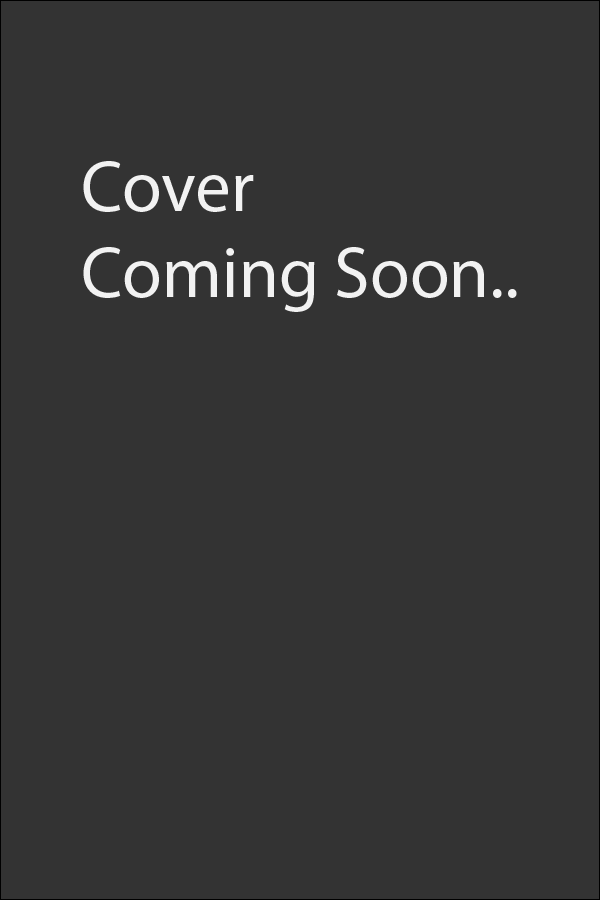
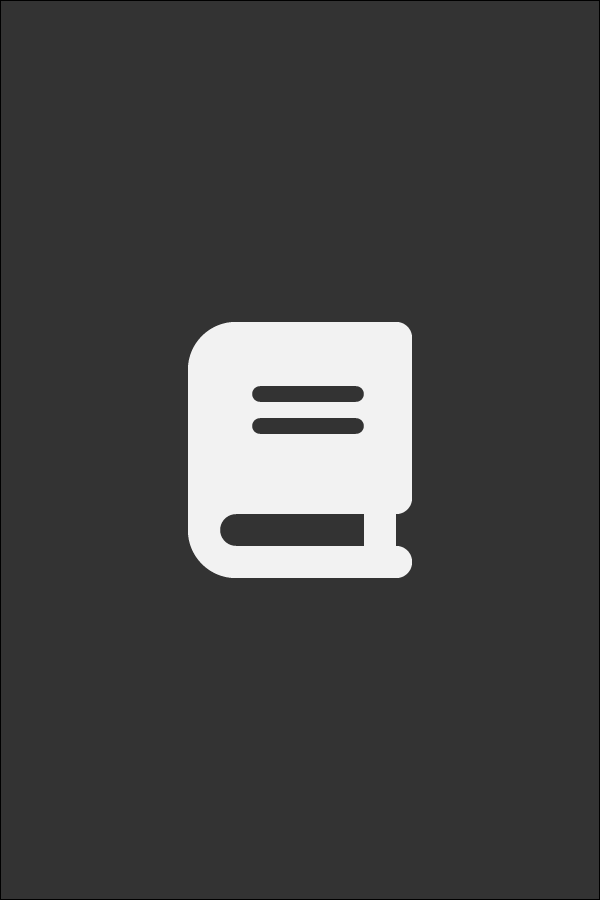
book covers not rendering

Changed region(s): [[0.12, 0.1556, 0.87, 0.6533]]

diff --git a/src/renderer/booksRenderer.js b/src/renderer/booksRenderer.js
@@ -1,9 +1,62 @@
 const {ipcRenderer} = require('electron');
 const fs = require('fs');
 const path = require('path');
+const AdmZip = require('adm-zip');
+const xml2js = require('xml2js');
 
+function extractBookCover(epubPath) {
+    try {
+        const zip = new AdmZip(epubPath);
+        console.log("Extracting cover from:", epubPath);
+
+        const container = zip.readAsText("META-INF/container.xml");
+        let opfPath;
+        xml2js.parseString(container, {tagNameProcessors: [xml2js.processors.stripPrefix]}, (err, result) => {
+            if (err) {
+                console.error("Failed to parse container.xml:", err);
+                return;
+            }
+            opfPath = result.container.rootfiles[0].rootfile[0].$.fullPath;
+        });
+
+        if (!opfPath) {
+            console.error("Could not find OPF path in container.xml");
+            return './images/placeholder_image.png';
+        }
+
+        const opf = zip.readAsText(opfPath);
+        let coverImagePath;
+        xml2js.parseString(opf, (err, result) => {
+            if (err) {
+                console.error("Failed to parse OPF:", err);
+                return;
+            }
+
+            const manifest = result.package.manifest[0].item;
+            const coverItem = manifest.find(item => item.$["properties"] === "cover-image");
+            if (coverItem) {
+                coverImagePath = coverItem.$.href;
+            }
+        });
+
+        if (!coverImagePath) {
+            console.error("Could not find cover image path in OPF");
+            return './images/placeholder_image.png';
+        }
+
+        const coverImageBuffer = zip.readFile(opfPath.replace(/[^\/]+$/, '') + coverImagePath);
+        const coverImageSavePath = path.join(require('os').tmpdir(), 'epub-cover-' + Date.now() + '.png');
+        fs.writeFileSync(coverImageSavePath, coverImageBuffer);
+
+        return coverImageSavePath;
+    } catch (error) {
+        console.error("Error in extractBookCover:", error);
+        return './images/placeholder_image.png';
+    }
+}
 
 ipcRenderer.on('load-books', (event, directoryPath) => {
+    console.log('Received load-books event with directory path:', directoryPath);
     fs.readdir(directoryPath, (err, files) => {
         if (err) {
             console.error('Error reading directory:', err);
@@ -11,7 +64,7 @@ ipcRenderer.on('load-books', (event, directoryPath) => {
         }
 
         const epubFiles = files.filter(file => path.extname(file).toLowerCase() === '.epub');
-
+        console.log('Found EPUB files:', epubFiles);
         epubFiles.forEach(epubFile => {
             const fullBookPath = path.join(directoryPath, epubFile);
 
@@ -19,11 +72,11 @@ ipcRenderer.on('load-books', (event, directoryPath) => {
             bookElement.classList.add('book-item');
 
             const bookImage = document.createElement('img');
-            bookImage.src = './images/placeholder_image.png';  // Placeholder image
+            bookImage.src = extractBookCover(fullBookPath);
             bookElement.appendChild(bookImage);
 
             const bookTitle = document.createElement('span');
-            bookTitle.textContent = path.basename(epubFile, '.epub'); // Use filename as title
+            bookTitle.textContent = path.basename(epubFile, '.epub');
             bookElement.appendChild(bookTitle);
 
             bookElement.addEventListener('click', () => {

diff --git a/src/main/main.js b/src/main/main.js
@@ -9,7 +9,7 @@ ipcMain.on('electron-store-get-data', (event, arg) => {
     if (arg && typeof arg.key !== 'undefined') {
         event.returnValue = store.get(arg.key, arg.defaultValue);
     } else {
-        console.error('electron-store-get-data called without a valid key');
+        //console.error('electron-store-get-data called without a valid key');
         event.returnValue = null;
     }
 });
@@ -35,6 +35,7 @@ function createWindow() {
 }
 
 function openBooksWindow(directoryPath) {
+    console.log("Opening books window...");
     booksWindow = new BrowserWindow({
         width: 800,
         height: 600,
@@ -46,6 +47,7 @@ function openBooksWindow(directoryPath) {
     });
 
     booksWindow.loadFile('src/books.html').then(() => {
+        console.log("Sending directory path to books window:", directoryPath);
         booksWindow.webContents.send('load-books', directoryPath);
     });
 
@@ -160,6 +162,7 @@ const generateMenu = () => {
 Menu.setApplicationMenu(Menu.buildFromTemplate(generateMenu()));
 
 ipcMain.on('toc-ready', (event, toc) => {
+    // console.log("Received toc-ready with toc:", toc);
     tocMenu = toc.map(tocItem => {
         return {
             label: tocItem.label,
@@ -174,6 +177,7 @@ ipcMain.on('toc-ready', (event, toc) => {
 });
 
 ipcMain.on('open-book', (event, bookPath) => {
+    console.log("Received open-book event with path:", bookPath);
     mainWindow.webContents.send('file-opened', bookPath);
     if (booksWindow) {  // <-- Check if the booksWindow exists
         booksWindow.close();
@@ -181,8 +185,13 @@ ipcMain.on('open-book', (event, bookPath) => {
 });
 
 ipcMain.on('close-books-window', () => {
+    console.log("Received close-books-window event.");
     if (booksWindow) {
         booksWindow.close();
         booksWindow = null;
     }
+});
+
+ipcMain.on('log-message', (event, message) => {
+    console.log(message);
 });

diff --git a/src/renderer/renderer.js b/src/renderer/renderer.js
@@ -8,7 +8,7 @@ let rendition;
 ipcRenderer.on('file-opened',
     (event, data) => {
         const book = ePub(data.path);
-        console.log("Received file-opened event for:", data.path);
+        //console.log("Received file-opened event for:", data.path);
 
         rendition = book.renderTo("viewer", {width: "100%", height: "100%"});
         book.ready.then(() => {
